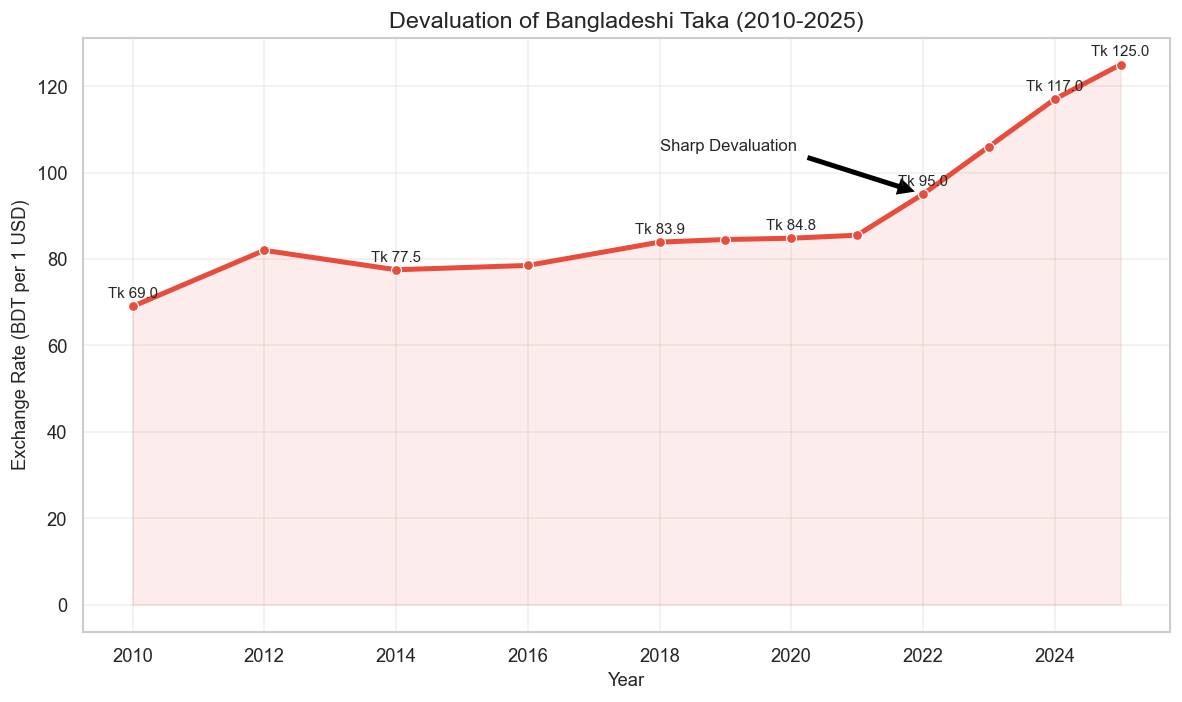
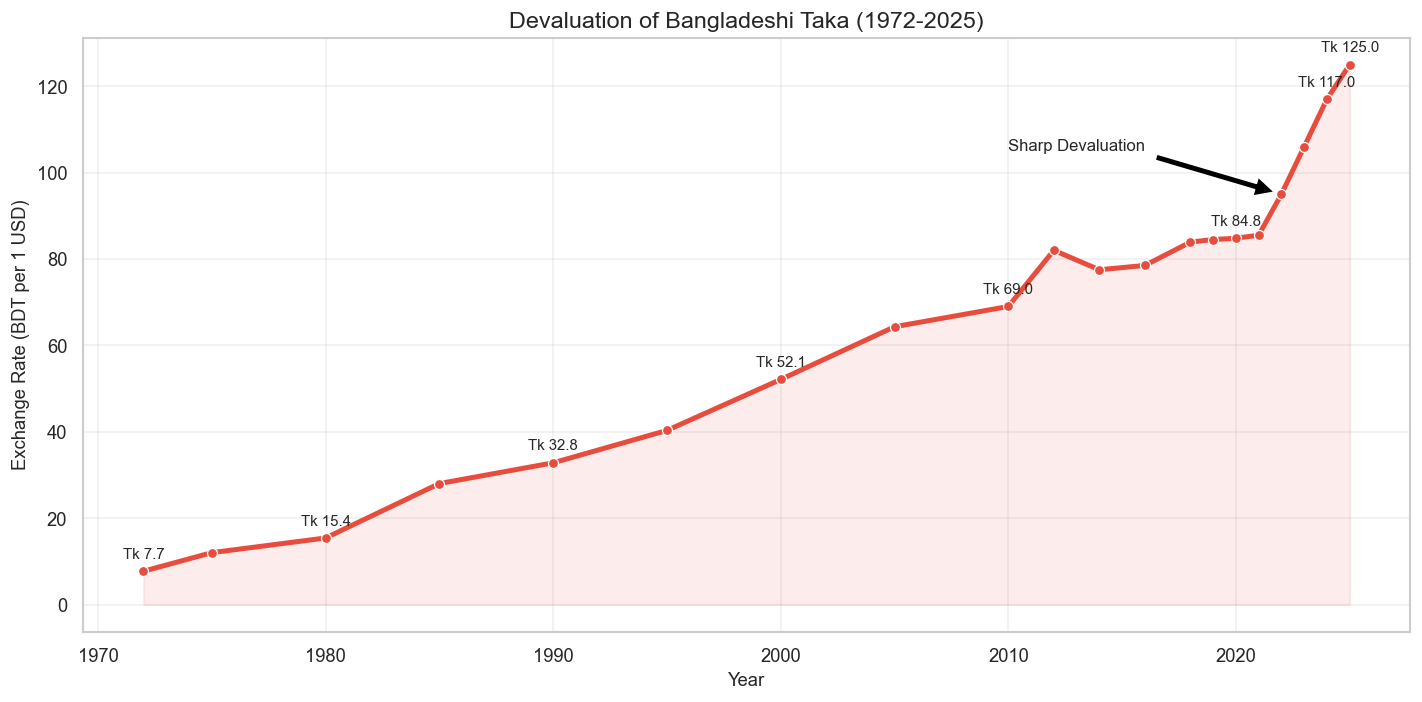
.

diff --git a/index.html b/index.html
@@ -202,6 +202,18 @@
             </div>
         </div>
 
+        <!-- Global Currency Trends -->
+        <div class="row mt-4">
+            <div class="col-12">
+                <div class="chart-container" style="border-top: 4px solid #e74c3c;">
+                    <h3 class="chart-title">Global Currency Dynamics</h3>
+                    <img src="global_inflation_trends.png" alt="Global Inflation and Dollar Value" class="chart-img">
+                    <p class="text-muted mt-2 text-center">Historical erosion of the US Dollar's purchasing power due to
+                        inflation (1970-2025).</p>
+                </div>
+            </div>
+        </div>
+
         <!-- Additional Visualizations -->
         <div class="row mt-4">
             <div class="col-12">

diff --git a/gdp_debt_analysis.py b/gdp_debt_analysis.py
@@ -474,29 +474,36 @@ def analyze_bangladesh_data():
 
     # 4. BDT Exchange Rate Drop (USD to BDT)
     # Historical Data (Approximate Average Annual Exchange Rates)
-    # Source: Bangladesh Bank / Macrotrends
+    # Source: Bangladesh Bank / Macrotrends / Economic History
     bdt_data = {
-        'Year': [2010, 2012, 2014, 2016, 2018, 2019, 2020, 2021, 2022, 2023, 2024, 2025],
-        'Exchange Rate (BDT/USD)': [69.0, 82.0, 77.5, 78.5, 83.9, 84.5, 84.8, 85.5, 95.0, 106.0, 117.0, 125.0]
+        'Year': [
+            1972, 1975, 1980, 1985, 1990, 1995, 2000, 2005, 2010, 
+            2012, 2014, 2016, 2018, 2019, 2020, 2021, 2022, 2023, 2024, 2025
+        ],
+        'Exchange Rate (BDT/USD)': [
+            7.7, 12.0, 15.4, 28.0, 32.8, 40.3, 52.1, 64.3, 69.0, 
+            82.0, 77.5, 78.5, 83.9, 84.5, 84.8, 85.5, 95.0, 106.0, 117.0, 125.0
+        ]
     }
     df_bdt = pd.DataFrame(bdt_data)
 
-    plt.figure(figsize=(10, 6))
+    plt.figure(figsize=(12, 6))
     sns.lineplot(data=df_bdt, x='Year', y='Exchange Rate (BDT/USD)', marker='o', linewidth=3, color='#e74c3c')
     plt.fill_between(df_bdt['Year'], df_bdt['Exchange Rate (BDT/USD)'], alpha=0.1, color='#e74c3c')
     
-    plt.title('Devaluation of Bangladeshi Taka (2010-2025)', fontsize=14)
+    plt.title('Devaluation of Bangladeshi Taka (1972-2025)', fontsize=14)
     plt.xlabel('Year', fontsize=11)
     plt.ylabel('Exchange Rate (BDT per 1 USD)', fontsize=11)
     
     # Highlight the sharp drop
-    plt.annotate('Sharp Devaluation', xy=(2022, 95), xytext=(2018, 105),
+    plt.annotate('Sharp Devaluation', xy=(2022, 95), xytext=(2010, 105),
              arrowprops=dict(facecolor='black', shrink=0.05),
              fontsize=10)
 
     for i, txt in enumerate(df_bdt['Exchange Rate (BDT/USD)']):
-        if i % 2 == 0 or i == len(df_bdt)-1: # Show every other label to avoid clutter, showing last one
-             plt.text(df_bdt['Year'][i], txt+2, f'Tk {txt}', ha='center', fontsize=9)
+        # Show labels for key years to avoid clutter
+        if df_bdt['Year'][i] in [1972, 1980, 1990, 2000, 2010, 2020, 2024, 2025]:
+             plt.text(df_bdt['Year'][i], txt+3, f'Tk {txt}', ha='center', fontsize=9)
         
     plt.grid(True, alpha=0.3)
     plt.tight_layout()
@@ -565,25 +572,30 @@ def analyze_global_inflation():
     sns.set_theme(style="whitegrid")
     
     # Historical US Inflation Data (CPI Annual %) - Approx sources: World Bank/IMF/Macrotrends
-    # 2024 estimated
-    data = {
-        'Year': list(range(2000, 2025)),
-        'Inflation Rate (%)': [
-            3.4, 2.8, 1.6, 2.3, 2.7, 3.4, 3.2, 2.8, 3.8, -0.4, # 2000-2009
-            1.6, 3.2, 2.1, 1.5, 1.6, 0.1, 1.3, 2.1, 2.4, 1.8, # 2010-2019
-            1.2, 4.7, 8.0, 4.1, 2.9 # 2020-2024 (Estimates for recent)
-        ]
-    }
+    # Expanded to 1970-2024
+    years = list(range(1970, 2025))
+    inflation_rates = [
+        # 1970-1979 (High Inflation Era)
+        5.8, 4.3, 3.3, 6.2, 11.1, 9.1, 5.8, 6.5, 7.6, 11.3,
+        # 1980-1989 (Volcker Shock & Recovery)
+        13.5, 10.3, 6.1, 3.2, 4.3, 3.6, 1.9, 3.6, 4.1, 4.8,
+        # 1990-1999 (Stable)
+        5.4, 4.2, 3.0, 3.0, 2.6, 2.8, 3.0, 2.3, 1.6, 2.2,
+        # 2000-2009
+        3.4, 2.8, 1.6, 2.3, 2.7, 3.4, 3.2, 2.8, 3.8, -0.4,
+        # 2010-2019
+        1.6, 3.2, 2.1, 1.5, 1.6, 0.1, 1.3, 2.1, 2.4, 1.8,
+        # 2020-2024 (COVID & Post-COVID)
+        1.2, 4.7, 8.0, 4.1, 2.9
+    ]
     
+    data = {'Year': years, 'Inflation Rate (%)': inflation_rates}
     df = pd.DataFrame(data)
     
-    # Calculate Purchasing Power of $100 (Base Year 2000)
+    # Calculate Purchasing Power of $100 (Base Year 1970)
     # Formula: Value = Previous_Value / (1 + Inflation_Rate/100)
     purchasing_power = []
     val = 100.0
-    # First year (2000) - Start of year $100. End of year? 
-    # Let's assume the chart shows purchasing power at the END of each year, 
-    # relative to start of 2000 being 100.
     
     for rate in df['Inflation Rate (%)']:
         val = val / (1 + rate/100)
@@ -598,65 +610,28 @@ def analyze_global_inflation():
     color1 = '#e74c3c'
     ax1.set_xlabel('Year', fontsize=12)
     ax1.set_ylabel('Inflation Rate (%)', color=color1, fontsize=12)
-    bars = ax1.bar(df['Year'], df['Inflation Rate (%)'], color=color1, alpha=0.6, label='Inflation Rate')
+    bars = ax1.bar(df['Year'], df['Inflation Rate (%)'], color=color1, alpha=0.3, label='Inflation Rate')
     ax1.tick_params(axis='y', labelcolor=color1)
-    ax1.grid(False) # Turn off grid for bars to not clutter
-    
-    # Add values to high inflation bars
-    for i, v in enumerate(df['Inflation Rate (%)']):
-        if v > 4 or v < 0:
-            ax1.text(df['Year'][i], v + 0.1, f'{v}%', ha='center', fontsize=8)
+    ax1.grid(False) 
     
     # Line Chart for Purchasing Power
     ax2 = ax1.twinx()
     color2 = '#2c3e50'
-    ax2.set_ylabel('Purchasing Power of $100 (Base 2000)', color=color2, fontsize=12)
-    ax2.plot(df['Year'], df['Purchasing Power ($)'], color=color2, linewidth=3, marker='o', markersize=4, label='Purchasing Power')
+    ax2.set_ylabel('Purchasing Power of $100 (Base 1970)', color=color2, fontsize=12)
+    ax2.plot(df['Year'], df['Purchasing Power ($)'], color=color2, linewidth=3, label='Purchasing Power')
     ax2.tick_params(axis='y', labelcolor=color2)
     ax2.set_ylim(0, 110)
     
-    # Add annotation for final value
+    # Annotations
     final_val = df['Purchasing Power ($)'].iloc[-1]
-    ax2.text(2024.5, final_val, f'${final_val:.2f}', color=color2, fontweight='bold', va='center')
+    ax2.text(2025, final_val, f'${final_val:.2f}', color=color2, fontweight='bold', va='center')
     
-    # Add annotation for 2022 shock
-    ax1.axvspan(2021.5, 2022.5, color='yellow', alpha=0.2)
-    plt.text(2022, 95, 'Post-COVID\nInflation Shock', ha='center', fontsize=9, bbox=dict(facecolor='white', alpha=0.8))
-
-    plt.title('Erosion of Value: US Dollar Inflation & Purchasing Power (2000-2024)', fontsize=16, pad=20)
+    # Highlight 2022
+    ax1.axvspan(2021.5, 2022.5, color='orange', alpha=0.2)
+    
+    plt.title('US Dollar Value Erosion (1970-2024)', fontsize=16, pad=20)
     fig.tight_layout()
     plt.savefig('global_inflation_trends.png', dpi=150, bbox_inches='tight')
-    plt.close('all')
-
-    # 3. GDP vs Debt Scatter for OIC
-    plt.figure(figsize=(10, 6)) # Reduced size
-    sns.scatterplot(
-        data=df, 
-        x='GDP (USD) Billion', 
-        y='Total Debt (USD) Billion',
-        size='Debt-to-GDP Ratio (%)',
-        sizes=(100, 1000),
-        alpha=0.6,
-        palette='deep',
-        hue='Country',
-        legend=False
-    )
-    
-    # Add labels
-    for i in range(len(df)):
-        plt.text(
-            df.iloc[i]['GDP (USD) Billion']+20, 
-            df.iloc[i]['Total Debt (USD) Billion'], 
-            df.iloc[i]['Country'], 
-            fontsize=8
-        )
-        
-    plt.title('OIC: Economic Size vs Debt Load', fontsize=14)
-    plt.xlabel('GDP (USD Billion)')
-    plt.ylabel('Total Debt (USD Billion)')
-    plt.grid(True, alpha=0.3)
-    plt.tight_layout()
-    plt.savefig('oic_scatter.png', dpi=150, bbox_inches='tight') # Reduced DPI
     plt.close('all')
 
 
